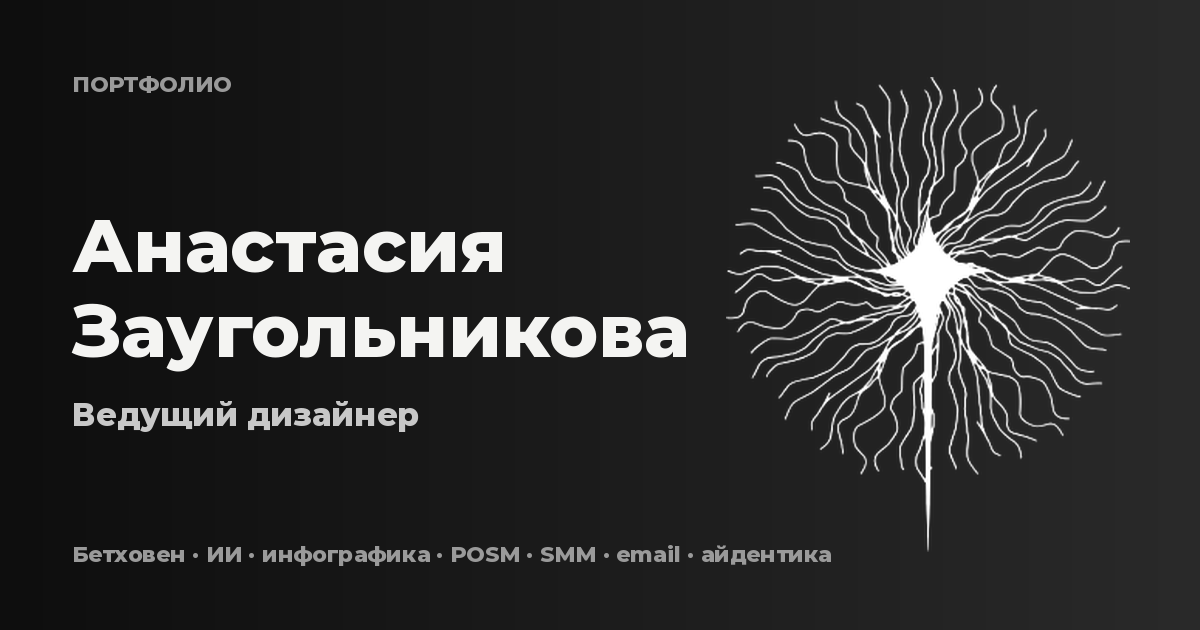
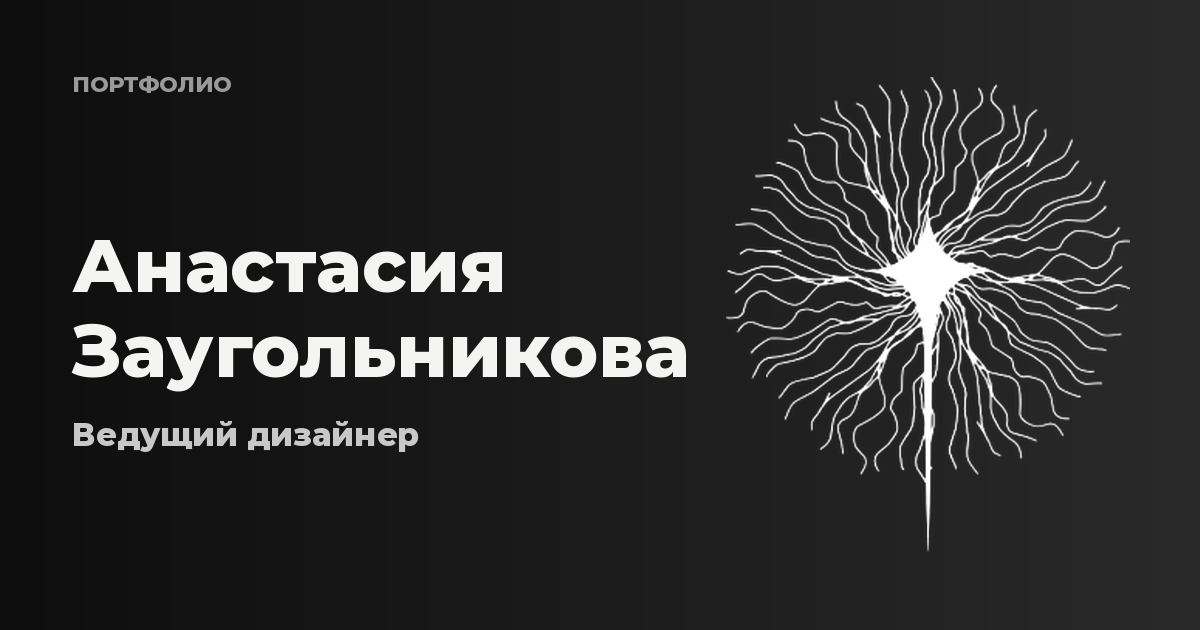
Link preview: remove bottom line
Claude-Session: https://claude.ai/code/session_017RxUvducfpt7eA1dJE89W5

Changed region(s): [[0.0617, 0.3317, 0.5858, 0.7238], [0.0617, 0.8444, 0.7092, 0.9048]]

diff --git a/index.html b/index.html
@@ -8,7 +8,7 @@
     <meta property="og:type" content="website" />
     <meta property="og:title" content="Анастасия Заугольникова" />
     <meta property="og:description" content="Портфолио ведущего дизайнера: «Бетховен», ИИ-генерации и автоматизация, инфографика, POSM, SMM, email и айдентика." />
-    <meta property="og:image" content="https://zaugolnikova-anastasia.github.io/portfolio/assets/brand/og.png?v=2" />
+    <meta property="og:image" content="https://zaugolnikova-anastasia.github.io/portfolio/assets/brand/og.png?v=3" />
     <meta name="twitter:card" content="summary_large_image" />
     <link rel="icon" href="/portfolio/assets/brand/favicon.png" />
     <link rel="preconnect" href="https://fonts.googleapis.com" />
